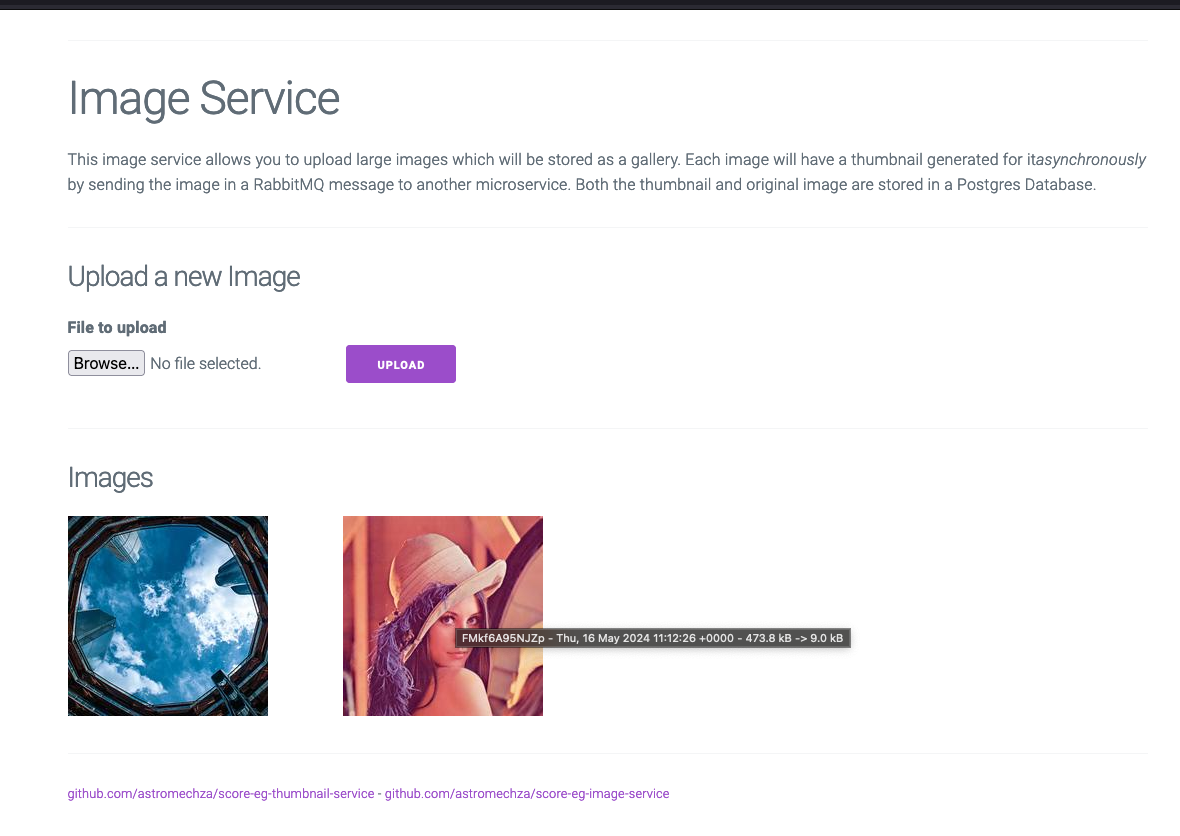
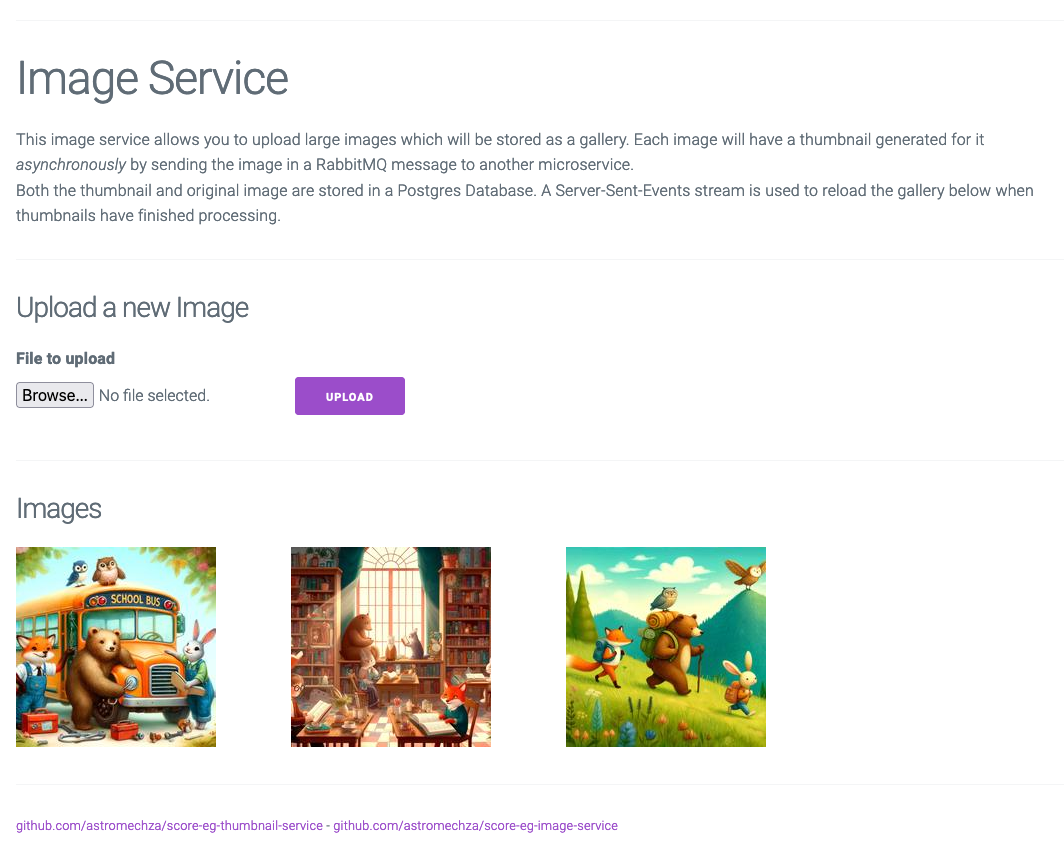
chore: adjusted sample images

diff --git a/index.html b/index.html
@@ -8,15 +8,15 @@
 <body>
     <script src="https://unpkg.com/htmx.org@1.9.12"></script>
     <script src="https://unpkg.com/htmx.org@1.9.12/dist/ext/response-targets.js"></script>
-    <script src="https://unpkg.com/htmx.ext...chunked-transfer/dist/index.js"></script>
 
     <div class="container">
         <hr>
         <h1>Image Service</h1>
         <p>
-            This image service allows you to upload large images which will be stored as a gallery. Each image will have a thumbnail generated for it<i>asynchronously</i> by sending the image in a RabbitMQ message to another microservice.
-            Both the thumbnail and original image are stored in a Postgres Database.
+            This image service allows you to upload large images which will be stored as a gallery. Each image will have a thumbnail generated for it <i>asynchronously</i> by sending the image in a RabbitMQ message to another microservice.<br>
+            Both the thumbnail and original image are stored in a Postgres Database. A Server-Sent-Events stream is used to reload the gallery below when thumbnails have finished processing.
         </p>
+
         <hr>
     </div>
 

diff --git a/README.md b/README.md
@@ -15,7 +15,7 @@ $ score-compose init
 $ curl https://raw.githubusercontent.com/astromechza/score-eg-thumbnail-service/main/score.yaml > score-thumbnail-service.yaml
 $ score-compose generate score-thumbnail-service.yaml score.yaml
 $ docker compose up -d
-$ score-compose resources get-outputs 'dns.default#image-service.dns' --format "http://{{ .host }}:8080"
+$ score-compose resources get-outputs 'dns.default#image-service.dns' --format "http://{{ .host }}:8080 "
 ```
 
 If you want to build the image from source, use the following adjustment:
